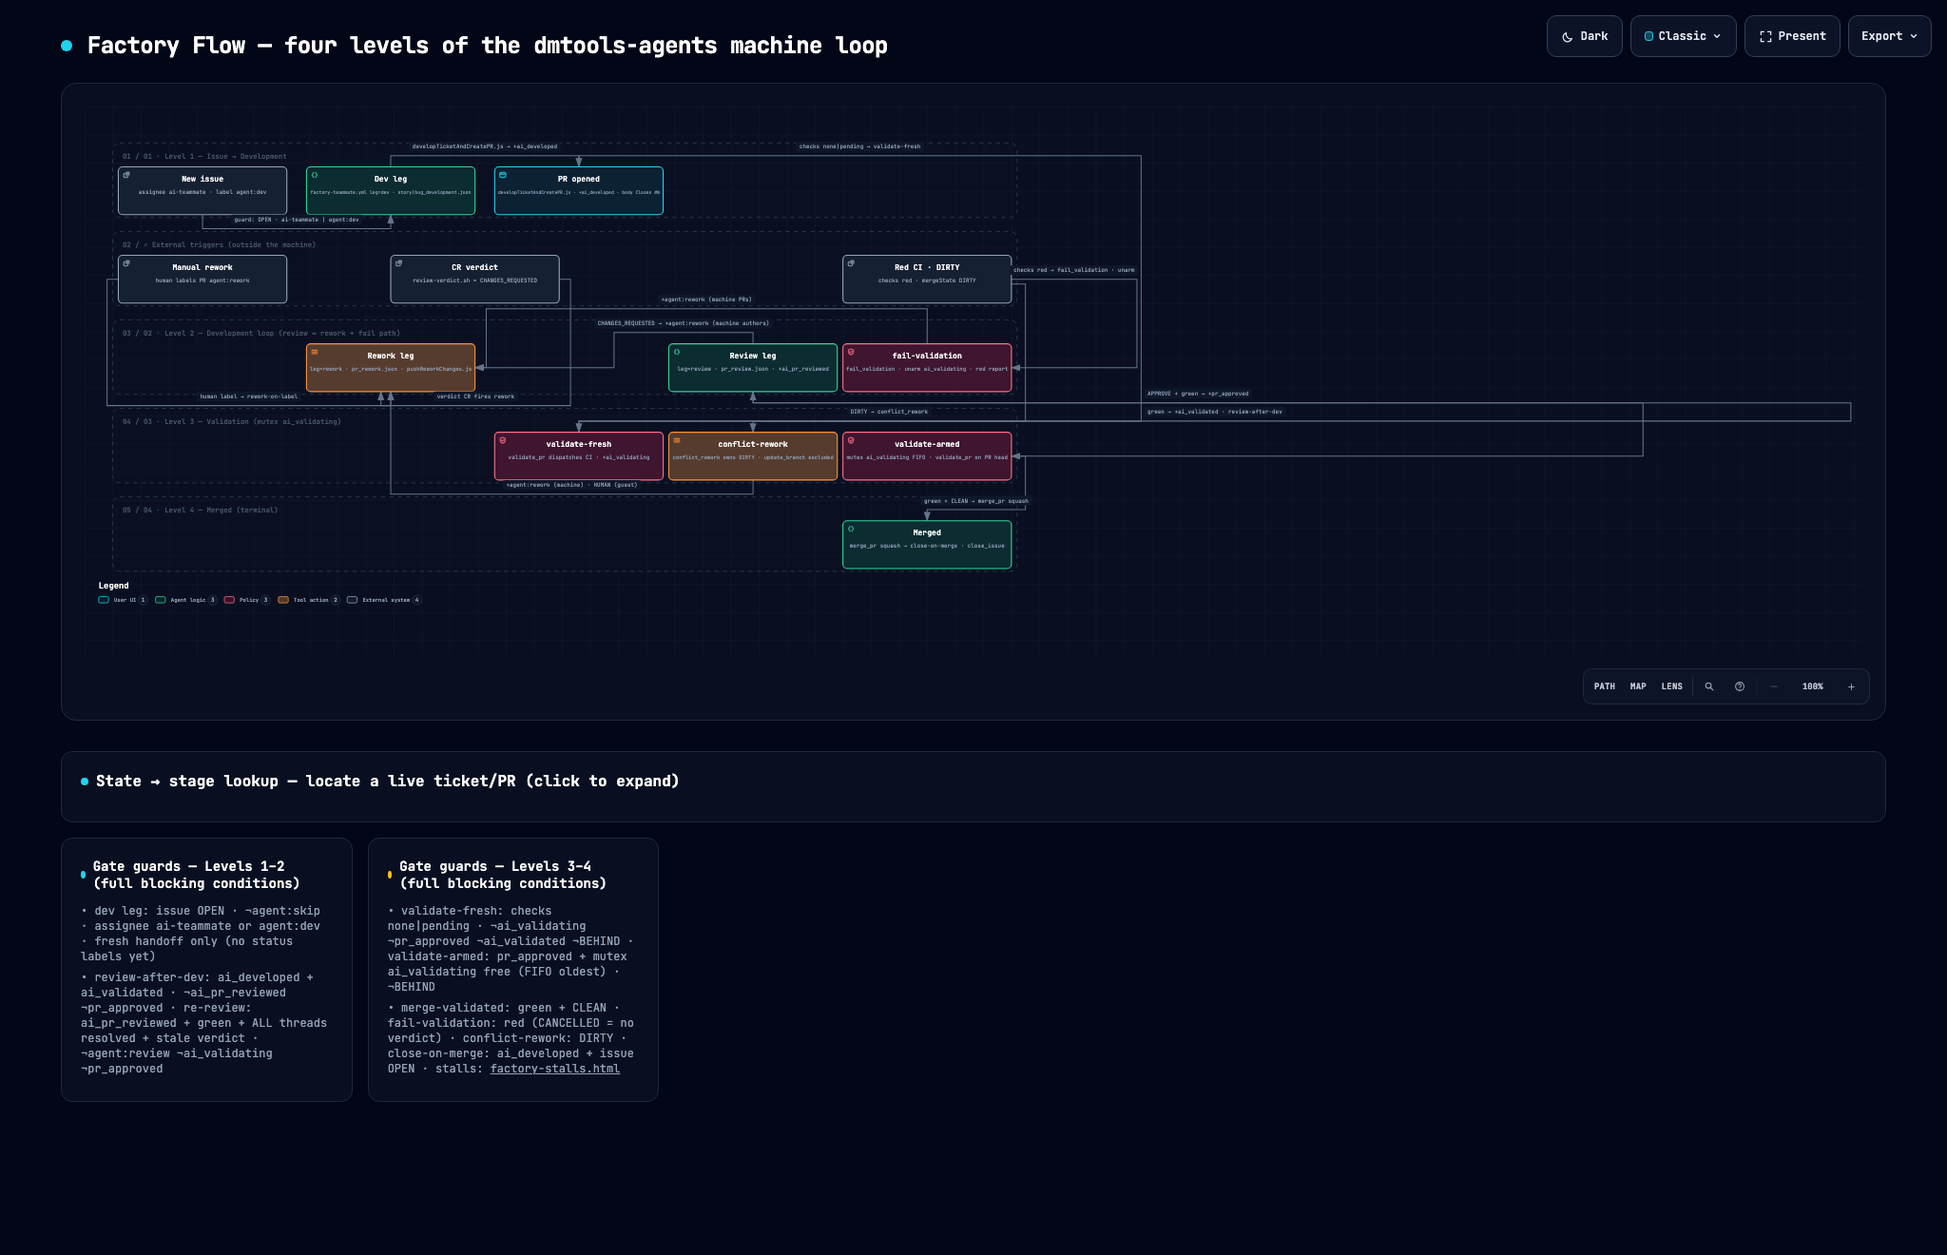
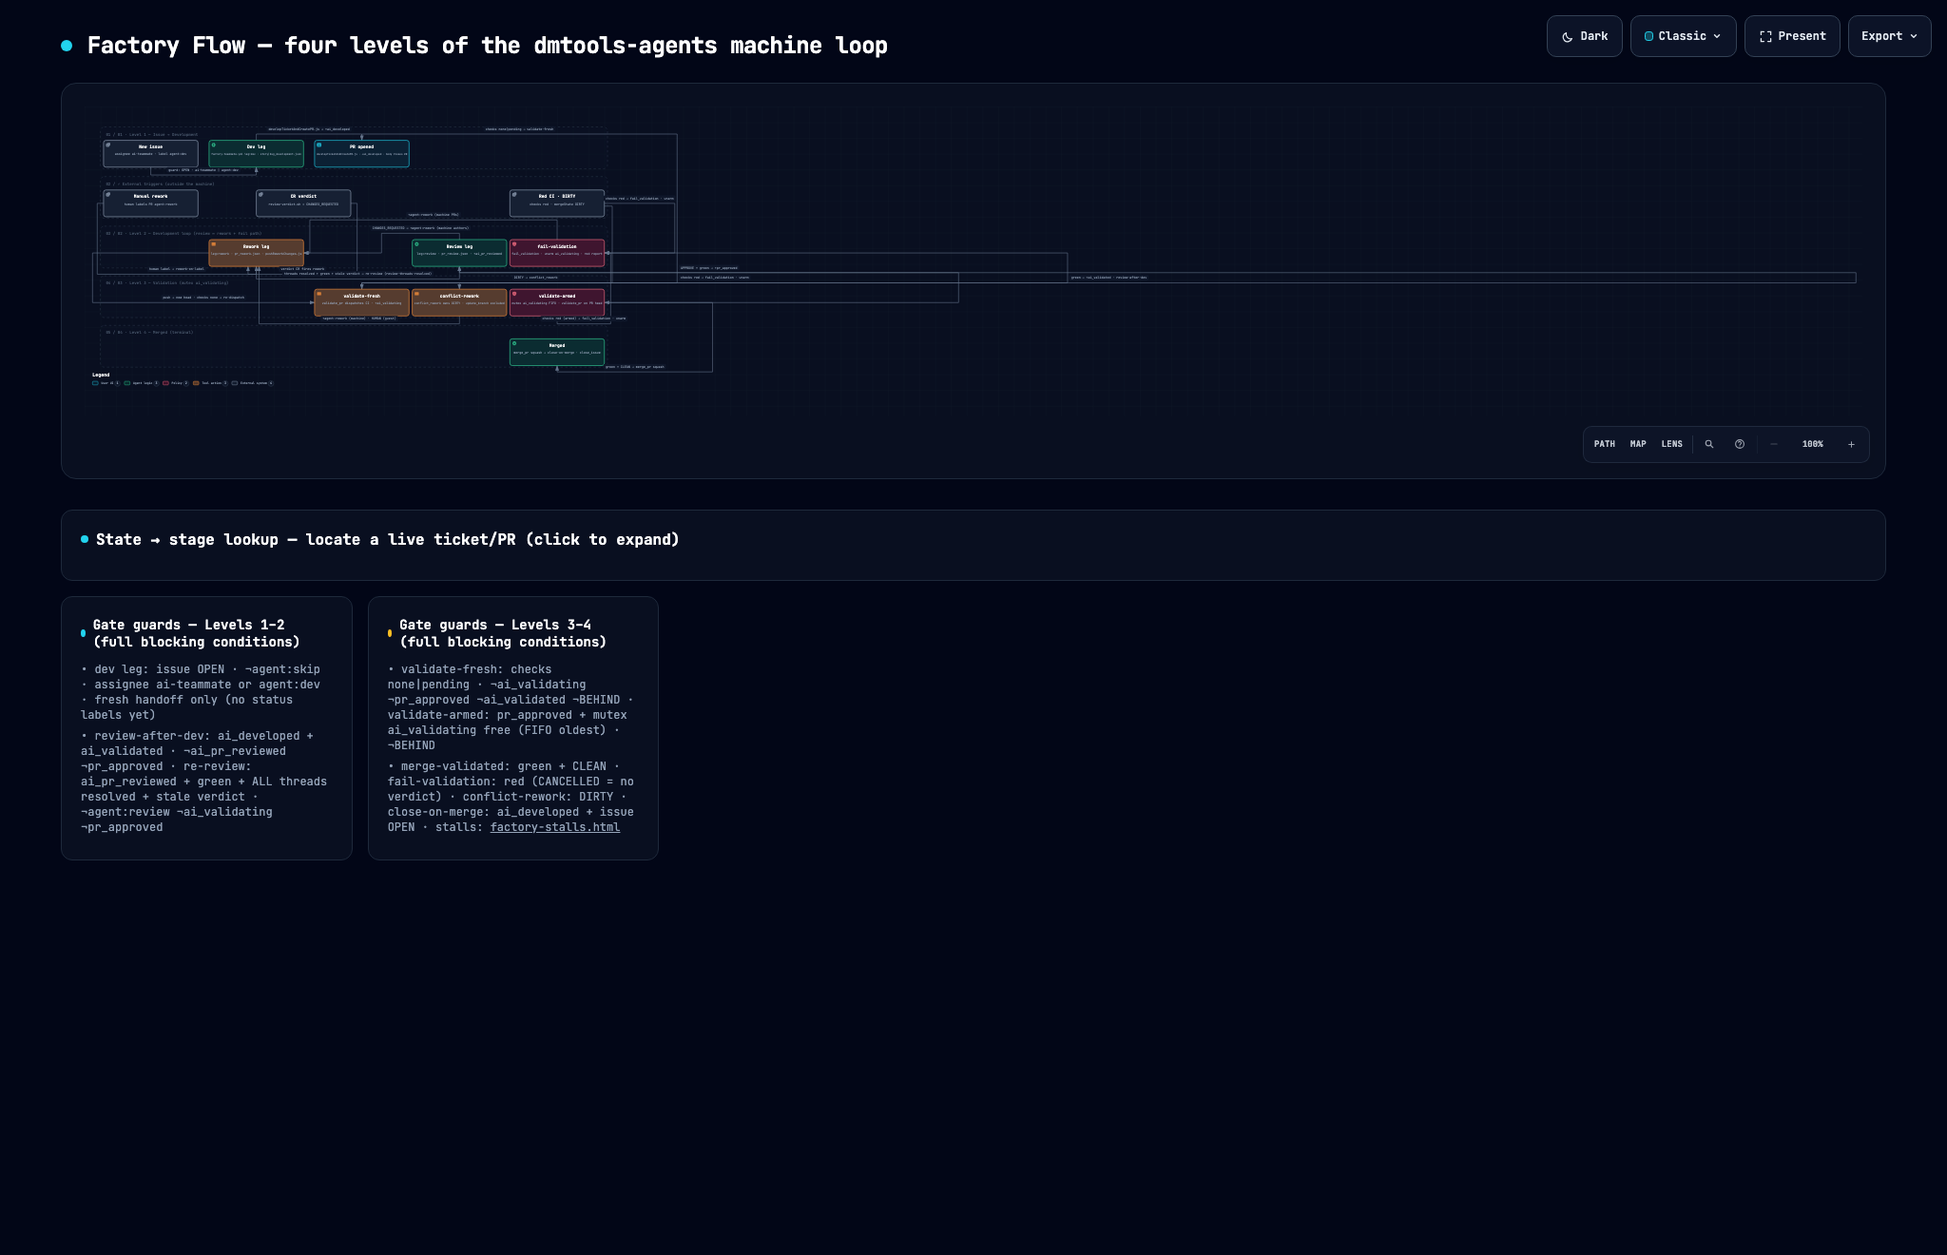
docs(site): every loop node gets a visible exit — rework exits + armed/fresh red exits (round 4)
- rework leg exits drawn: -> review leg (re-review: threads resolved + green +
  stale verdict, review-threads-resolved; routed via below-row channel) and
  -> validate-fresh (push -> new head -> checks none -> re-dispatch)
- validate-armed red exit drawn: ->(checks red, armed)-> fail-validation;
  validate-fresh red exit drawn: ->(checks red)-> fail-validation
- validate-fresh recolored to the messagebus/orange tool-action family
- loop now reads: validation fail -> rework leg -> review -> approved -> armed
  -> merged; only Merged and human-inbox paths are terminal

diff --git a/site/index.html b/site/index.html
@@ -5130,7 +5130,7 @@ OTHER DEALINGS IN THE FONT SOFTWARE.
     <!-- Main Diagram -->
     <div class="diagram-container" data-detail-level="read"
          data-preset-badge-editorial-plate="ARCHIFY / PLATE 04">
-      <svg viewBox="0 0 2532 786" role="img" lang="en" aria-labelledby="archify-diagram-title archify-diagram-description" data-preset="classic" data-quality-profile="standard">
+      <svg viewBox="0 0 4515 786" role="img" lang="en" aria-labelledby="archify-diagram-title archify-diagram-description" data-preset="classic" data-quality-profile="standard">
         <title id="archify-diagram-title">Factory Flow — four levels of the dmtools-agents machine loop</title>
         <desc id="archify-diagram-description">A workflow diagram generated by Archify.</desc>
         <!-- Definitions -->
@@ -5180,8 +5180,8 @@ OTHER DEALINGS IN THE FONT SOFTWARE.
         <!-- Edge paths -->
         <path data-edge-from="cisig" data-edge-to="conflict" data-edge-label="DIRTY → conflict_rework" data-edge-key="0" data-composition-points="1320,253;1340,253;1340,448;952,448;952,464" d="M 1320 253 L 1340 253 L 1340 448 L 952 448 L 952 464" class="a-default" stroke-width="1.4" marker-end="url(#arrowhead)"/>
         <path data-edge-from="cisig" data-edge-to="failval" data-edge-label="checks red → fail_validation · unarm" data-edge-key="1" data-composition-points="1320,246;1498.8,246;1498.8,372;1320,372" d="M 1320 246 L 1498.8 246 L 1498.8 372 L 1320 372" class="a-default" stroke-width="1.4" marker-end="url(#arrowhead)"/>
-        <path data-edge-from="conflict" data-edge-to="reworkleg" data-edge-label="+agent:rework (machine) · HUMAN (guest)" data-edge-key="2" data-composition-points="952,532;952,552;436,552;436,406" d="M 952 532 L 952 552 L 436 552 L 436 406" class="a-default" stroke-width="1.4" marker-end="url(#arrowhead)"/>
-        <path data-edge-from="crverdict" data-edge-to="reworkleg" data-edge-label="verdict CR fires rework" data-edge-key="3" data-composition-points="676,246;692,246;692,426;422,426;422,406" d="M 676 246 L 692 246 L 692 426 L 422 426 L 422 406" class="a-default" stroke-width="1.4" marker-end="url(#arrowhead)"/>
+        <path data-edge-from="conflict" data-edge-to="reworkleg" data-edge-label="+agent:rework (machine) · HUMAN (guest)" data-edge-key="2" data-composition-points="952,532;952,552;443,552;443,406" d="M 952 532 L 952 552 L 443 552 L 443 406" class="a-default" stroke-width="1.4" marker-end="url(#arrowhead)"/>
+        <path data-edge-from="crverdict" data-edge-to="reworkleg" data-edge-label="verdict CR fires rework" data-edge-key="3" data-composition-points="676,246;692,246;692,426;415,426;415,406" d="M 676 246 L 692 246 L 692 426 L 415 426 L 415 406" class="a-default" stroke-width="1.4" marker-end="url(#arrowhead)"/>
         <path data-edge-from="devleg" data-edge-to="pr" data-edge-label="developTicketAndCreatePR.js → +ai_developed" data-edge-key="4" data-composition-points="436,86;436,70;704,70;704,86" d="M 436 86 L 436 70 L 704 70 L 704 86" class="a-default" stroke-width="1.4" marker-end="url(#arrowhead)"/>
         <path data-edge-from="failval" data-edge-to="reworkleg" data-edge-label="+agent:rework (machine PRs)" data-edge-key="5" data-composition-points="1200,338;1200,288;572,288;572,372;556,372" d="M 1200 338 L 1200 288 L 572 288 L 572 372 L 556 372" class="a-default" stroke-width="1.4" marker-end="url(#arrowhead)"/>
         <path data-edge-from="issue" data-edge-to="devleg" data-edge-label="guard: OPEN · ai-teammate | agent:dev" data-edge-key="6" data-composition-points="168,154;168,174;436,174;436,154" d="M 168 154 L 168 174 L 436 174 L 436 154" class="a-default" stroke-width="1.4" marker-end="url(#arrowhead)"/>
@@ -5189,8 +5189,12 @@ OTHER DEALINGS IN THE FONT SOFTWARE.
         <path data-edge-from="pr" data-edge-to="vfresh" data-edge-label="checks none|pending → validate-fresh" data-edge-key="8" data-composition-points="704,86;704,70;1504.8,70;1504.8,448;704,448;704,464" d="M 704 86 L 704 70 L 1504.8 70 L 1504.8 448 L 704 448 L 704 464" class="a-default" stroke-width="1.4" marker-end="url(#arrowhead)"/>
         <path data-edge-from="reviewleg" data-edge-to="reworkleg" data-edge-label="CHANGES_REQUESTED → +agent:rework (machine authors)" data-edge-key="9" data-composition-points="952,338;952,322;754,322;754,372;556,372" d="M 952 338 L 952 322 L 754 322 L 754 372 L 556 372" class="a-default" stroke-width="1.4" marker-end="url(#arrowhead)"/>
         <path data-edge-from="reviewleg" data-edge-to="varmed" data-edge-label="APPROVE + green → +pr_approved" data-edge-key="10" data-composition-points="952,406;952,422;2219.601,422;2219.601,498;1320,498" d="M 952 406 L 952 422 L 2219.601 422 L 2219.601 498 L 1320 498" class="a-default" stroke-width="1.4" marker-end="url(#arrowhead)"/>
-        <path data-edge-from="varmed" data-edge-to="merged" data-edge-label="green + CLEAN → merge_pr squash" data-edge-key="11" data-composition-points="1320,498;1340,498;1340,574;1200,574;1200,590" d="M 1320 498 L 1340 498 L 1340 574 L 1200 574 L 1200 590" class="a-default" stroke-width="1.4" marker-end="url(#arrowhead)"/>
-        <path data-edge-from="vfresh" data-edge-to="reviewleg" data-edge-label="green → +ai_validated · review-after-dev" data-edge-key="12" data-composition-points="704,464;704,448;2515.6,448;2515.6,422;952,422;952,406" d="M 704 464 L 704 448 L 2515.6 448 L 2515.6 422 L 952 422 L 952 406" class="a-default" stroke-width="1.4" marker-end="url(#arrowhead)"/>
+        <path data-edge-from="reworkleg" data-edge-to="reviewleg" data-edge-label="threads resolved + green + stale verdict → re-review (review-threads-resolved)" data-edge-key="11" data-composition-points="436,406;436,438;952,438;952,406" d="M 436 406 L 436 438 L 952 438 L 952 406" class="a-default" stroke-width="1.4" marker-end="url(#arrowhead)"/>
+        <path data-edge-from="reworkleg" data-edge-to="vfresh" data-edge-label="push → new head · checks none → re-dispatch" data-edge-key="12" data-composition-points="316,372;20,372;20,498;584,498" d="M 316 372 L 20 372 L 20 498 L 584 498" class="a-default" stroke-width="1.4" marker-end="url(#arrowhead)"/>
+        <path data-edge-from="varmed" data-edge-to="failval" data-edge-label="checks red (armed) → fail_validation · unarm" data-edge-key="13" data-composition-points="1200,532;1200,552;1336,552;1336,372;1320,372" d="M 1200 532 L 1200 552 L 1336 552 L 1336 372 L 1320 372" class="a-default" stroke-width="1.4" marker-end="url(#arrowhead)"/>
+        <path data-edge-from="varmed" data-edge-to="merged" data-edge-label="green + CLEAN → merge_pr squash" data-edge-key="14" data-composition-points="1320,498;1594.8,498;1594.8,674;1200,674;1200,658" d="M 1320 498 L 1594.8 498 L 1594.8 674 L 1200 674 L 1200 658" class="a-default" stroke-width="1.4" marker-end="url(#arrowhead)"/>
+        <path data-edge-from="vfresh" data-edge-to="failval" data-edge-label="checks red → fail_validation · unarm" data-edge-key="15" data-composition-points="704,464;704,448;2496.4,448;2496.4,372;1320,372" d="M 704 464 L 704 448 L 2496.4 448 L 2496.4 372 L 1320 372" class="a-default" stroke-width="1.4" marker-end="url(#arrowhead)"/>
+        <path data-edge-from="vfresh" data-edge-to="reviewleg" data-edge-label="green → +ai_validated · review-after-dev" data-edge-key="16" data-composition-points="704,464;704,448;4498.8,448;4498.8,422;952,422;952,406" d="M 704 464 L 704 448 L 4498.8 448 L 4498.8 422 L 952 422 L 952 406" class="a-default" stroke-width="1.4" marker-end="url(#arrowhead)"/>
 
         <!-- Nodes -->
         <g id="node-issue" data-node-id="issue" data-node-label="New issue" tabindex="0" role="button" aria-label="Focus New issue, assignee ai-teammate · label agent:dev, 01 · Level 1 — Issue → Development" aria-pressed="false" data-node-kind="external" data-node-sublabel="assignee ai-teammate · label agent:dev" data-node-tag="SEE: issue OPEN · no status labels" data-node-context="01 · Level 1 — Issue → Development">
@@ -5312,17 +5316,19 @@ OTHER DEALINGS IN THE FONT SOFTWARE.
         <text data-detail="fine" x="1200" y="394" class="t-security" font-size="7" text-anchor="middle">SEE: checks red · arm cleared</text>
         </g>
 
-        <g id="node-vfresh" data-node-id="vfresh" data-node-label="validate-fresh" tabindex="0" role="button" aria-label="Focus validate-fresh, validate_pr dispatches CI · +ai_validating, 03 · Level 3 — Validation (mutex ai_validating)" aria-pressed="false" data-node-kind="security" data-node-sublabel="validate_pr dispatches CI · +ai_validating" data-node-tag="SEE: ai_validating · checks pending" data-node-context="03 · Level 3 — Validation (mutex ai_validating)">
+        <g id="node-vfresh" data-node-id="vfresh" data-node-label="validate-fresh" tabindex="0" role="button" aria-label="Focus validate-fresh, validate_pr dispatches CI · +ai_validating, 03 · Level 3 — Validation (mutex ai_validating)" aria-pressed="false" data-node-kind="messagebus" data-node-sublabel="validate_pr dispatches CI · +ai_validating" data-node-tag="SEE: ai_validating · checks pending" data-node-context="03 · Level 3 — Validation (mutex ai_validating)">
           <title>validate-fresh · validate_pr dispatches CI · +ai_validating · 03 · Level 3 — Validation (mutex ai_validating) · SEE: ai_validating · checks pending</title>
           <rect x="584" y="464" width="240" height="68" rx="6" class="c-mask"/>
-          <rect x="584" y="464" width="240" height="68" rx="6" class="c-security" stroke-width="1.5"/>
-          <g aria-hidden="true" data-semantic-sigil="security" class="semantic-sigil s-security" transform="translate(590 470) scale(0.6875)">
-            <path d="M8 2.2 13 4v3.5c0 3.1-1.8 5.4-5 6.5-3.2-1.1-5-3.4-5-6.5V4Z"/>
-            <path d="m5.8 8 1.5 1.5 3-3"/>
+          <rect x="584" y="464" width="240" height="68" rx="6" class="c-messagebus" stroke-width="1.5"/>
+          <g aria-hidden="true" data-semantic-sigil="messagebus" class="semantic-sigil s-messagebus" transform="translate(590 470) scale(0.6875)">
+            <path d="M2.5 4.5h11M2.5 8h11M2.5 11.5h11"/>
+            <circle cx="5" cy="4.5" r="1" class="sigil-fill"/>
+            <circle cx="10.5" cy="8" r="1" class="sigil-fill"/>
+            <circle cx="7" cy="11.5" r="1" class="sigil-fill"/>
           </g>
           <text data-node-label="" data-detail-anchor="" x="704" y="485" class="t-primary" font-size="11" font-weight="600" text-anchor="middle">validate-fresh</text>
           <text data-detail="context" x="704" y="502" class="t-muted" font-size="8" text-anchor="middle">validate_pr dispatches CI · +ai_validating</text>
-        <text data-detail="fine" x="704" y="520" class="t-security" font-size="7" text-anchor="middle">SEE: ai_validating · checks pending</text>
+        <text data-detail="fine" x="704" y="520" class="t-messagebus" font-size="7" text-anchor="middle">SEE: ai_validating · checks pending</text>
         </g>
 
         <g id="node-conflict" data-node-id="conflict" data-node-label="conflict-rework" tabindex="0" role="button" aria-label="Focus conflict-rework, conflict_rework owns DIRTY · update_branch excluded, 03 · Level 3 — Validation (mutex ai_validating)" aria-pressed="false" data-node-kind="messagebus" data-node-sublabel="conflict_rework owns DIRTY · update_branch excluded" data-node-tag="SEE: mergeState DIRTY" data-node-context="03 · Level 3 — Validation (mutex ai_validating)">
@@ -5375,12 +5381,12 @@ OTHER DEALINGS IN THE FONT SOFTWARE.
           <text x="1409.4" y="236" class="t-muted" font-size="8" text-anchor="middle">checks red → fail_validation · unarm</text>
         </g>
         <g data-detail="context" data-edge-from="conflict" data-edge-to="reworkleg" data-edge-label="+agent:rework (machine) · HUMAN (guest)" data-edge-key="2">
-          <rect x="595.4" y="532" width="197.2" height="14" rx="3" class="c-mask"/>
-          <text x="694" y="542" class="t-muted" font-size="8" text-anchor="middle">+agent:rework (machine) · HUMAN (guest)</text>
+          <rect x="598.9" y="532" width="197.2" height="14" rx="3" class="c-mask"/>
+          <text x="697.5" y="542" class="t-muted" font-size="8" text-anchor="middle">+agent:rework (machine) · HUMAN (guest)</text>
         </g>
         <g data-detail="context" data-edge-from="crverdict" data-edge-to="reworkleg" data-edge-label="verdict CR fires rework" data-edge-key="3">
-          <rect x="496.8" y="406" width="120.39999999999999" height="14" rx="3" class="c-mask"/>
-          <text x="557" y="416" class="t-muted" font-size="8" text-anchor="middle">verdict CR fires rework</text>
+          <rect x="493.3" y="406" width="120.39999999999999" height="14" rx="3" class="c-mask"/>
+          <text x="553.5" y="416" class="t-muted" font-size="8" text-anchor="middle">verdict CR fires rework</text>
         </g>
         <g data-detail="context" data-edge-from="devleg" data-edge-to="pr" data-edge-label="developTicketAndCreatePR.js → +ai_developed" data-edge-key="4">
           <rect x="461.8" y="50" width="216.4" height="14" rx="3" class="c-mask"/>
@@ -5410,13 +5416,29 @@ OTHER DEALINGS IN THE FONT SOFTWARE.
           <rect x="1508.8005" y="402" width="154" height="14" rx="3" class="c-mask"/>
           <text x="1585.8005" y="412" class="t-muted" font-size="8" text-anchor="middle">APPROVE + green → +pr_approved</text>
         </g>
-        <g data-detail="context" data-edge-from="varmed" data-edge-to="merged" data-edge-label="green + CLEAN → merge_pr squash" data-edge-key="11">
-          <rect x="1190.6" y="554" width="158.79999999999998" height="14" rx="3" class="c-mask"/>
-          <text x="1270" y="564" class="t-muted" font-size="8" text-anchor="middle">green + CLEAN → merge_pr squash</text>
+        <g data-detail="context" data-edge-from="reworkleg" data-edge-to="reviewleg" data-edge-label="threads resolved + green + stale verdict → re-review (review-threads-resolved)" data-edge-key="11">
+          <rect x="501.8" y="418" width="384.4" height="14" rx="3" class="c-mask"/>
+          <text x="694" y="428" class="t-muted" font-size="8" text-anchor="middle">threads resolved + green + stale verdict → re-review (review-threads-resolved)</text>
         </g>
-        <g data-detail="context" data-edge-from="vfresh" data-edge-to="reviewleg" data-edge-label="green → +ai_validated · review-after-dev" data-edge-key="12">
-          <rect x="1508.8" y="428" width="202" height="14" rx="3" class="c-mask"/>
-          <text x="1609.8" y="438" class="t-muted" font-size="8" text-anchor="middle">green → +ai_validated · review-after-dev</text>
+        <g data-detail="context" data-edge-from="reworkleg" data-edge-to="vfresh" data-edge-label="push → new head · checks none → re-dispatch" data-edge-key="12">
+          <rect x="193.8" y="478" width="216.4" height="14" rx="3" class="c-mask"/>
+          <text x="302" y="488" class="t-muted" font-size="8" text-anchor="middle">push → new head · checks none → re-dispatch</text>
+        </g>
+        <g data-detail="context" data-edge-from="varmed" data-edge-to="failval" data-edge-label="checks red (armed) → fail_validation · unarm" data-edge-key="13">
+          <rect x="1157.4" y="532" width="221.2" height="14" rx="3" class="c-mask"/>
+          <text x="1268" y="542" class="t-muted" font-size="8" text-anchor="middle">checks red (armed) → fail_validation · unarm</text>
+        </g>
+        <g data-detail="context" data-edge-from="varmed" data-edge-to="merged" data-edge-label="green + CLEAN → merge_pr squash" data-edge-key="14">
+          <rect x="1318" y="654" width="158.79999999999998" height="14" rx="3" class="c-mask"/>
+          <text x="1397.4" y="664" class="t-muted" font-size="8" text-anchor="middle">green + CLEAN → merge_pr squash</text>
+        </g>
+        <g data-detail="context" data-edge-from="vfresh" data-edge-to="failval" data-edge-label="checks red → fail_validation · unarm" data-edge-key="15">
+          <rect x="1508.8" y="428" width="182.79999999999998" height="14" rx="3" class="c-mask"/>
+          <text x="1600.2" y="438" class="t-muted" font-size="8" text-anchor="middle">checks red → fail_validation · unarm</text>
+        </g>
+        <g data-detail="context" data-edge-from="vfresh" data-edge-to="reviewleg" data-edge-label="green → +ai_validated · review-after-dev" data-edge-key="16">
+          <rect x="2500.4" y="428" width="202" height="14" rx="3" class="c-mask"/>
+          <text x="2601.4" y="438" class="t-muted" font-size="8" text-anchor="middle">green → +ai_validated · review-after-dev</text>
         </g>
 
         <!-- Legend -->
@@ -5647,7 +5669,7 @@ OTHER DEALINGS IN THE FONT SOFTWARE.
             <tr><td style="padding:0.3rem 0.6rem">PR ai_pr_reviewed · verdict APPROVE · checks green</td><td style="padding:0.3rem 0.6rem">verdict → approved</td><td style="padding:0.3rem 0.6rem">+pr_approved → validate-armed once mutex free · MACHINE</td></tr>
             <tr><td style="padding:0.3rem 0.6rem">PR ai_pr_reviewed · ANY review thread unresolved</td><td style="padding:0.3rem 0.6rem">re-review gate parked</td><td style="padding:0.3rem 0.6rem">review-threads-resolved needs ALL threads resolved + stale verdict + green · HUMAN/machine resolves threads</td></tr>
             <tr><td style="padding:0.3rem 0.6rem">PR ai_pr_reviewed · verdict CHANGES_REQUESTED</td><td style="padding:0.3rem 0.6rem">trigger: CR verdict → L2 rework loop</td><td style="padding:0.3rem 0.6rem">+agent:rework → rework leg AUTO for machine authors; guest PRs comment-only · MACHINE / HUMAN (guest)</td></tr>
-            <tr><td style="padding:0.3rem 0.6rem">PR or issue agent:rework</td><td style="padding:0.3rem 0.6rem">L2 rework leg</td><td style="padding:0.3rem 0.6rem">leg=rework (pr_rework.json) → pushReworkChanges.js → re-review via review-threads-resolved · MACHINE</td></tr>
+            <tr><td style="padding:0.3rem 0.6rem">PR or issue agent:rework</td><td style="padding:0.3rem 0.6rem">L2 rework leg</td><td style="padding:0.3rem 0.6rem">leg=rework (pr_rework.json) → pushReworkChanges.js → exits: re-review (threads resolved) + validate-fresh re-dispatch · MACHINE</td></tr>
             <tr><td style="padding:0.3rem 0.6rem">PR pr_approved · ¬ai_validating</td><td style="padding:0.3rem 0.6rem">mutex queue (FIFO)</td><td style="padding:0.3rem 0.6rem">validate-armed when mutex ai_validating free, oldest approved first · MACHINE</td></tr>
             <tr><td style="padding:0.3rem 0.6rem">PR pr_approved + ai_validating</td><td style="padding:0.3rem 0.6rem">L3 validate-armed</td><td style="padding:0.3rem 0.6rem">green + CLEAN → merge_pr squash; red → fail_validation → agent:rework loop · MACHINE</td></tr>
             <tr><td style="padding:0.3rem 0.6rem">PR pr_approved + ai_validated (¬ai_validating)</td><td style="padding:0.3rem 0.6rem">mutex queue (FIFO)</td><td style="padding:0.3rem 0.6rem">latch does not skip armed validation — validate-armed next free tick · MACHINE</td></tr>
